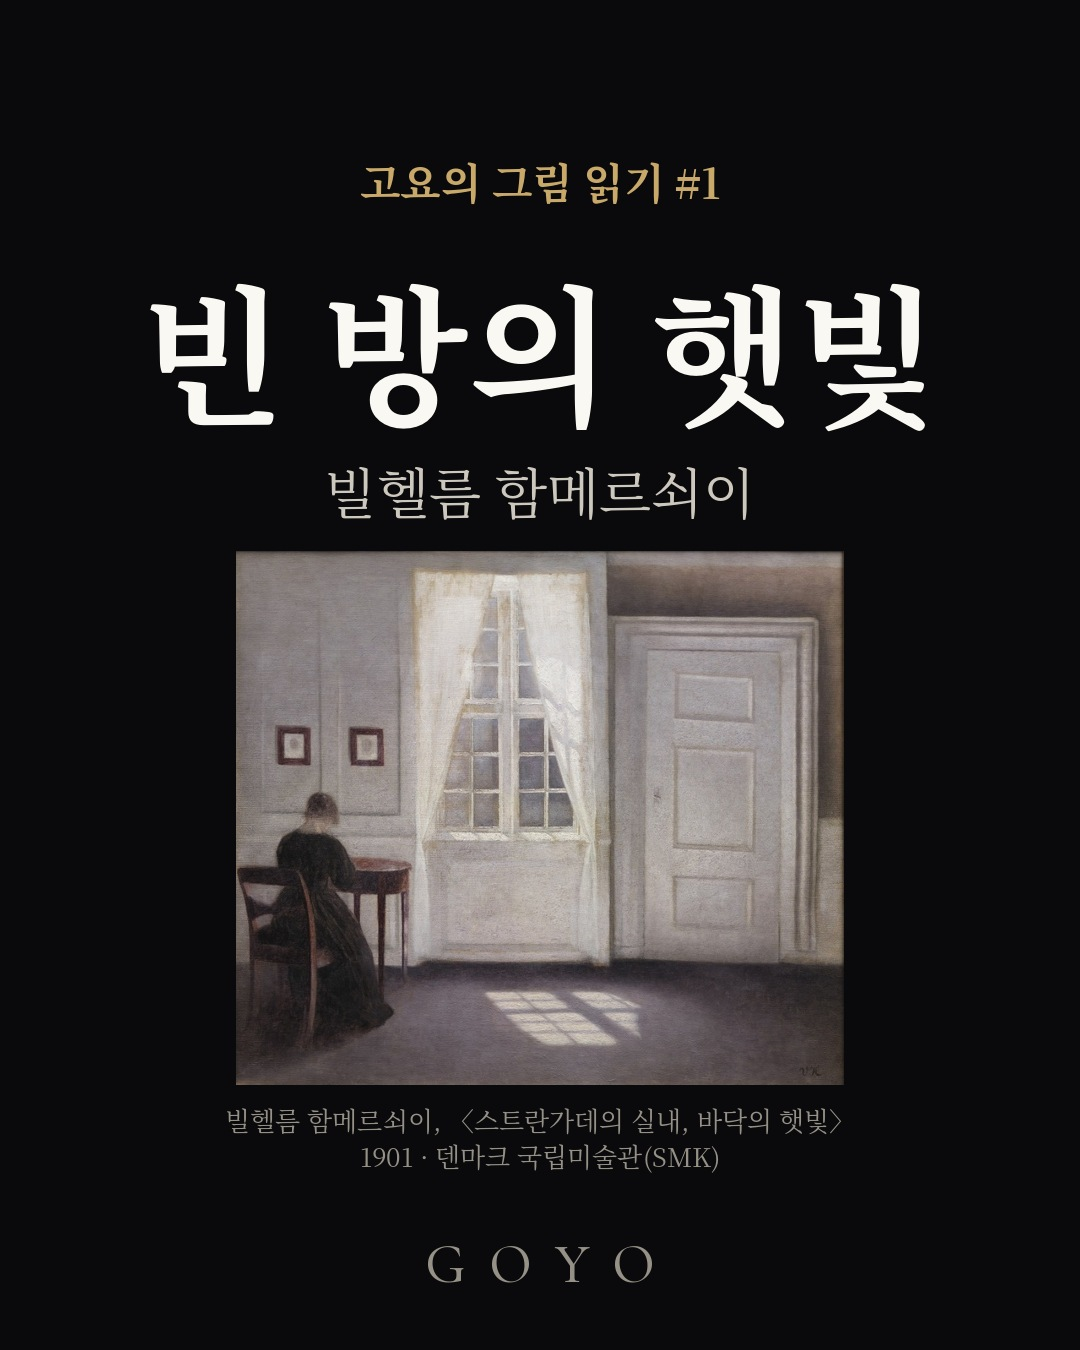
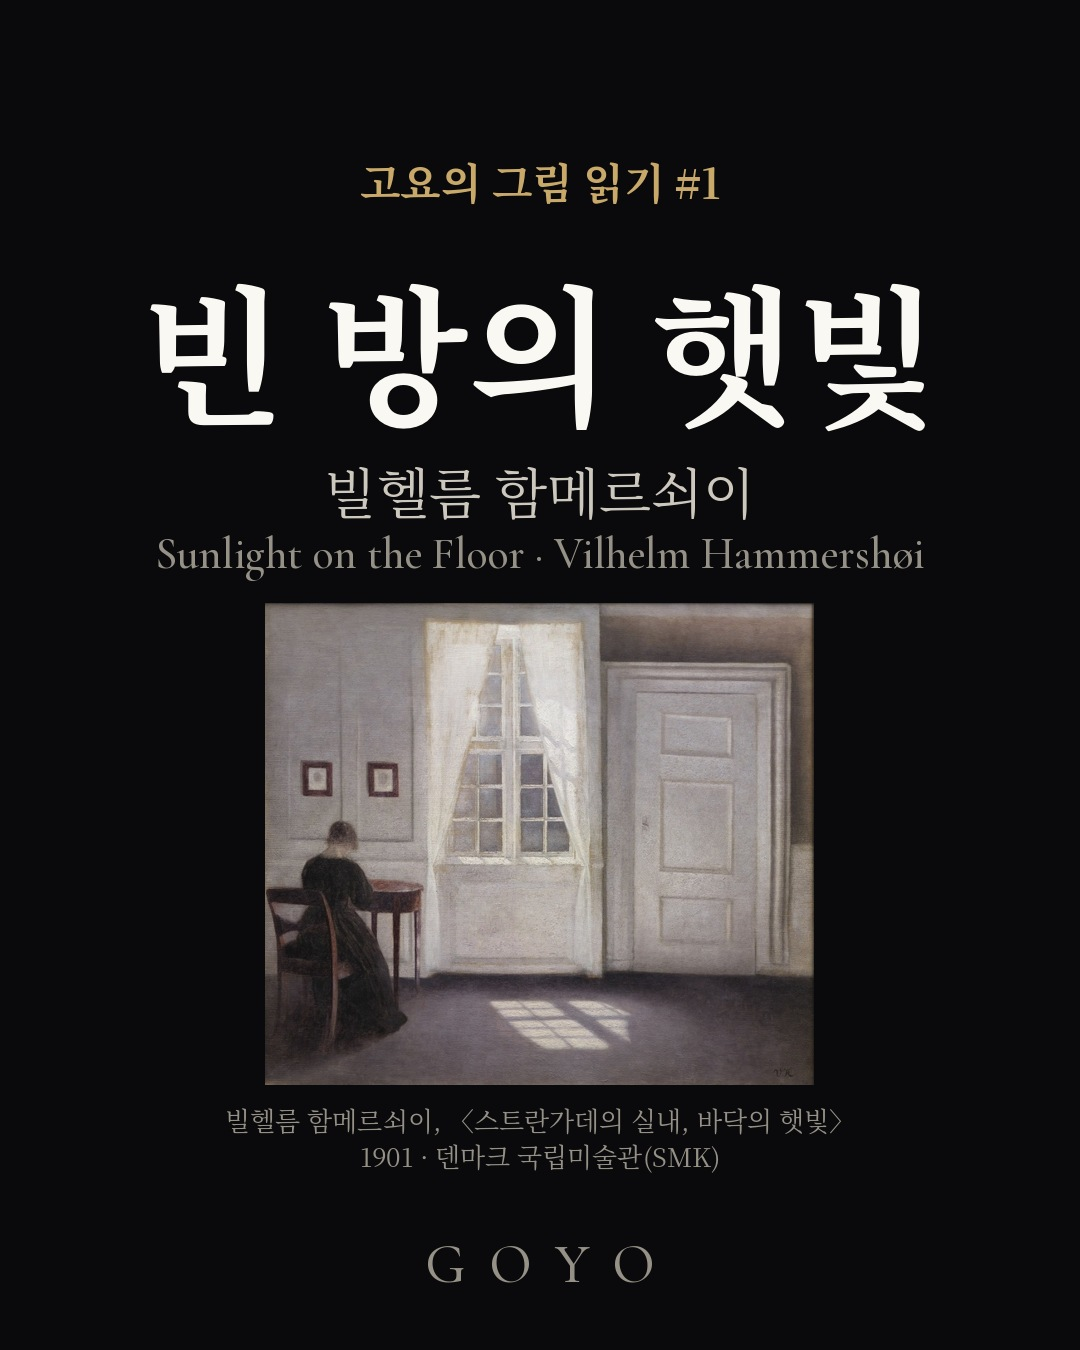
11/19 저녁·밤 게시물 영어 캡션, 함메르쇠이 표지 영어 줄
Claude-Session: https://claude.ai/code/session_01YKKUv8b4FfTb62jqwSpAgP

Changed region(s): [[0.1528, 0.4044, 0.8556, 0.8089]]

diff --git a/tools/week_src/cover18.py b/tools/week_src/cover18.py
@@ -17,7 +17,7 @@ CG = os.path.join(ROOT, 'tools', 'fonts', 'CormorantGaramond-500.ttf')
 FIVE = [('화', HWA), ('·', FG), ('수', SU), ('·', FG), ('목', MOK), ('·', FG), ('금', GEUM), ('·', FG), ('토', TO)]
 
 S = {
- '2026-11-18': dict(label='고요 이야기', title=['고요는', '이렇게', '만들어요'], sub='같은 곡이 되풀이되지 않게', acc=GOLD, en='How Goyo makes its music'),
+ '2026-11-18': dict(label='고요 이야기', title=['고요는', '이렇게', '만들어요'], sub='같은 곡이 되풀이되지 않게', acc=GOLD),
  '2026-11-19': dict(label='고요의 그림 읽기 #1', title=['빈 방의 햇빛'], sub='빌헬름 함메르쇠이', acc=GOLD, paint=True),
  '2026-11-20': dict(label='몰랐던 오행 이야기', title=[FIVE, '요일 이름이', '오행이에요'], sub='화요일부터 토요일까지', acc=None),
  '2026-11-22': dict(label='11월 22일 · 이번 주 기운', title=['소설', '小雪'], sub='첫눈이 온다는 날', acc=SU),
@@ -52,6 +52,8 @@ S = {
 }
 
 PAINT = {'2026-12-09': ('wl_full.jpg', ['클로드 모네, 〈수련(Water Lilies)〉 1906', '시카고 미술관 · 퍼블릭 도메인(CC0)']), '2026-11-19': (None, ['빌헬름 함메르쇠이, 〈스트란가데의 실내, 바닥의 햇빛〉', '1901 · 덴마크 국립미술관(SMK)']), '2026-11-26': ('se_paint.jpg', ['김정희, 〈세한도(歲寒圖)〉 1844 · 국보', '국립중앙박물관 · 이미지 위키미디어 공용(퍼블릭 도메인)']), '2026-12-03': ('inwang_full.jpg', ['정선, 〈인왕제색도(仁王霽色圖)〉 1751 · 국보', '국립중앙박물관 · 이미지 위키미디어 공용(퍼블릭 도메인)']), '2026-12-10': ('latour_full.jpg', ['조르주 드 라 투르, 〈연기 나는 불꽃 앞의 막달라 마리아〉', '1635~1637년 무렵 · LACMA · 위키미디어 공용(퍼블릭 도메인)']), '2026-12-17': ('millet_full.jpg', ["장프랑수아 밀레, 〈만종(L'Angélus)〉 1857~1859", '오르세 미술관 · 이미지 위키미디어 공용(퍼블릭 도메인)']), '2026-12-24': ('hiro_full.jpg', ['우타가와 히로시게, 〈간바라 밤눈〉 「도카이도 53역참」 중, 1833~1834', '메트로폴리탄 미술관 · 이미지 위키미디어 공용(퍼블릭 도메인)']), '2026-12-31': ('monet_full.jpg', ['클로드 모네, 〈까치(La Pie)〉 1868~1869', '오르세 미술관 · 이미지 위키미디어 공용(퍼블릭 도메인)'])}
+
+EN = {'2026-11-18': 'How Goyo makes its music', '2026-11-19': 'Sunlight on the Floor · Vilhelm Hammershøi', '2026-11-20': 'In Korean, five weekdays are named for the elements', '2026-11-22': 'Light Snow (小雪), the day first snow is said to fall', '2026-11-23': 'The full moon of the tenth lunar month', '2026-11-25': 'Four words hidden in the name Goyo', '2026-11-26': 'Sehando (Winter Scene) · Kim Jeong-hui', '2026-11-27': 'Why is there Earth in a winter sky?', '2026-11-29': "The earliest sunset isn't on the winter solstice", '2026-11-30': "It's December, but in Saju it's still the tenth month", '2026-12-02': 'Each Goyo track title carries its character', '2026-12-03': 'Clearing After Rain on Mount Inwang · Jeong Seon', '2026-12-04': 'Midnight and noon in Korean: the old twelve hours', '2026-12-06': 'New to Goyo? Where to start listening', '2026-12-07': 'Today Saju enters the month of 子', '2026-12-09': 'Water Lilies · Claude Monet', '2026-12-10': 'Magdalene with the Smoking Flame · Georges de La Tour', '2026-12-11': 'Why Saju apps give different results', '2026-12-13': 'Why the rainbow has seven colors: the musical scale', '2026-12-14': 'The long nights of the eleventh lunar month', '2026-12-16': 'Five Goyos, five times of day', '2026-12-17': 'The Angelus · Jean-François Millet', '2026-12-18': "Why Korea's 60th birthday falls at 61", '2026-12-20': 'Lo-fi first meant low fidelity', '2026-12-21': 'Tomorrow is the winter solstice', '2026-12-23': 'Gaeun (開運): about opening, not changing', '2026-12-24': 'Night Snow at Kambara · Utagawa Hiroshige', '2026-12-25': 'No birth time? You can still read your Saju', '2026-12-27': 'Why does the New Year bell ring 33 times?', '2026-12-28': '2027 is the year of 丁未: a lamp and earth', '2026-12-30': "Goyo on one map: the year's last story", '2026-12-31': 'The Magpie · Claude Monet', '2026-11-21': "Saju's new year starts in early February", '2026-11-24': 'Of your eight characters, one is you', '2026-11-28': 'Lots of Fire in your chart?', '2026-12-01': 'Lots of Metal in your chart?', '2026-12-05': 'Morning person or night owl?', '2026-12-08': "What's your favorite color?", '2026-12-12': 'Lots of Wood in your chart?', '2026-12-15': 'Lots of Earth in your chart?', '2026-12-19': 'Gaeun (開運): about opening, not waiting', '2026-12-22': 'Yang Wood and Yin Wood: the same tree?', '2026-12-26': 'Do you study to just any music?', '2026-12-29': "What's your favorite day of the week?"}
 
 
 def ct(d, y, t, f, fill):
@@ -126,8 +128,8 @@ def make(date):
         y += 60
     y += 34
     ct(d, y, sp['sub'], F(54), SUB); y += 90
-    if sp.get('en'):
-        ct(d, y - 14, sp['en'], ImageFont.truetype(CG, 46), DIMC); y += 52
+    if EN.get(date):
+        ct(d, y - 14, EN[date], ImageFont.truetype(CG, 44), DIMC); y += 52
     if paint:
         src, cred = PAINT[date]
         pic = Image.open(os.path.join(ROOT, 'tools', 'week_src', src)).convert('RGB') if src else crop_painting(old)[0]
@@ -177,6 +179,7 @@ def reel_cover(date):
             d.rounded_rectangle([x0 + i * (bw + 20), y + 20, x0 + i * (bw + 20) + bw, y + 34], 7, fill=c, outline=(255, 255, 255) if c == SU else None, width=2)
         y += 60
     y += 34; ct(d, y, sp['sub'], F(54), SUB)
+    if EN.get(date): ct(d, y + 80, EN[date], ImageFont.truetype(CG, 46), DIMC)
     logo(d, 285 + 1230)
     out = os.path.join(pdir, 'cover.jpg'); im.save(out, quality=93)
     pj = os.path.join(pdir, 'post.json'); post = json.load(open(pj))
